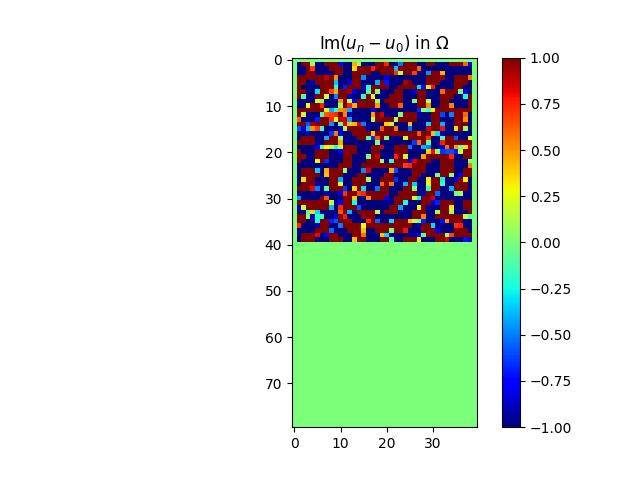
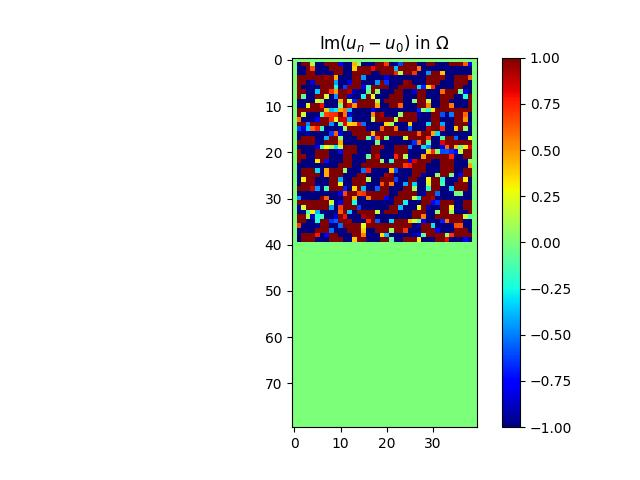
bug descente de graduit

diff --git a/demo_control_polycopie2023.py b/demo_control_polycopie2023.py
@@ -295,10 +295,10 @@ def your_optimization_procedure_multi(domain_omega, spacestep, wavenumber, f, f_
             #print('    d. computing objective function, i.e., energy (E)')
             enes = []
             for i in range(wavenumber.shape[0]):
-                en = your_compute_objective_function(u[i],spacestep)
+                en = your_compute_objective_function(us[i],spacestep)
                 enes.append(en)
             ene = sum(enes)
-            bool_a=ene<J
+            bool_a=ene<sum(Js)
             if bool_a:
                 # The step is increased if the energy decreased
                 mu = mu * 1.1
